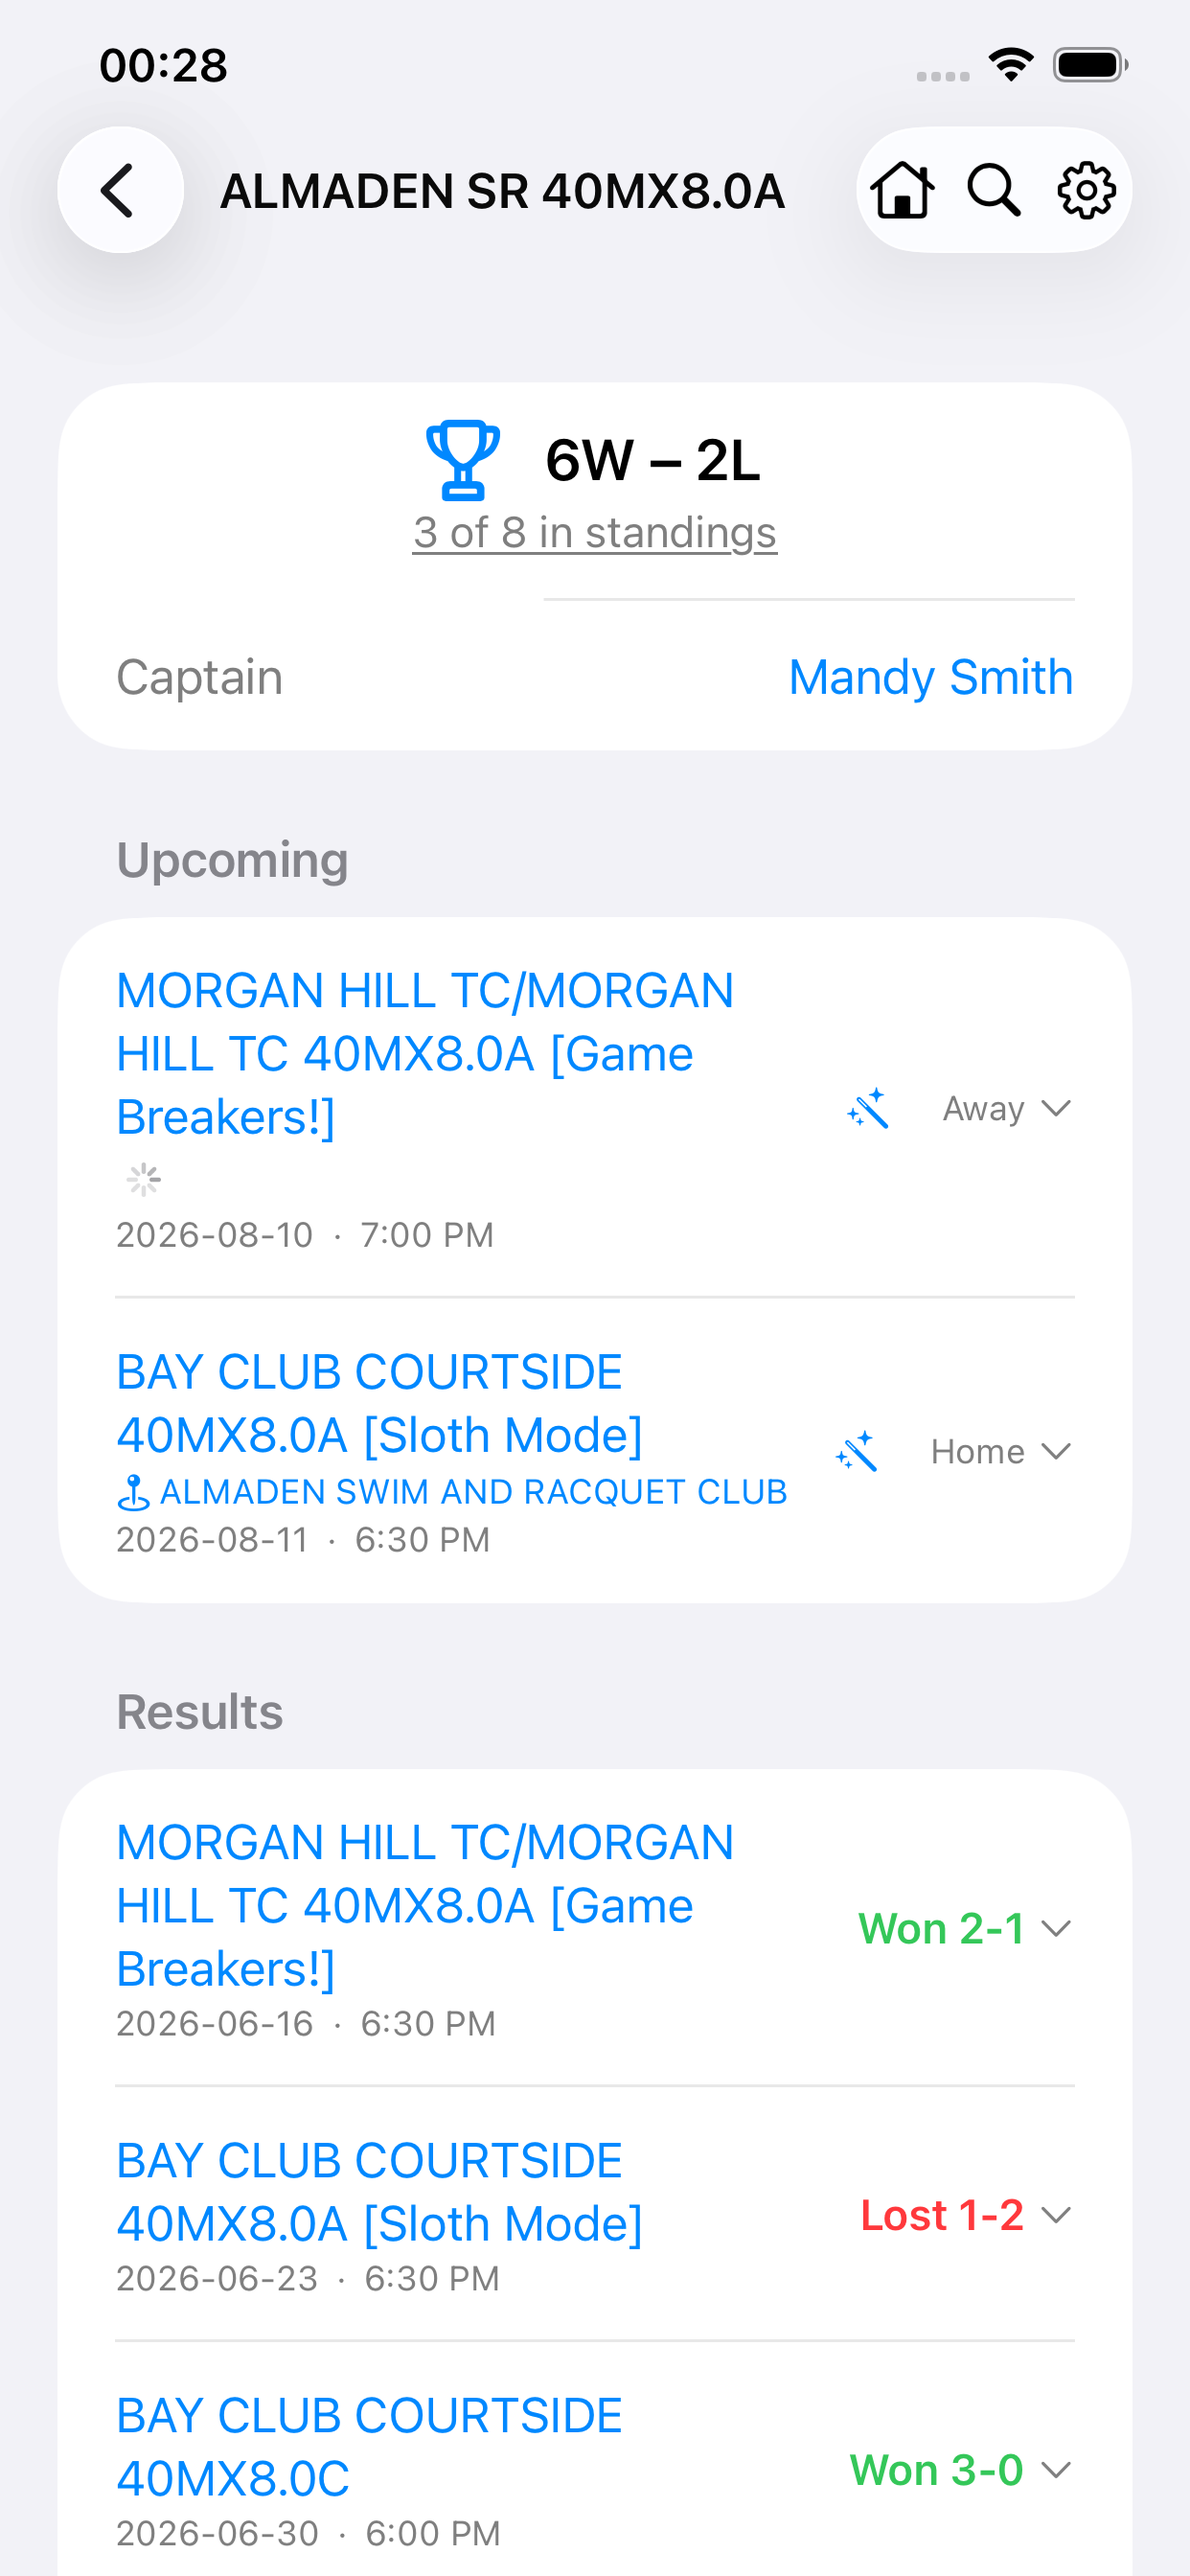
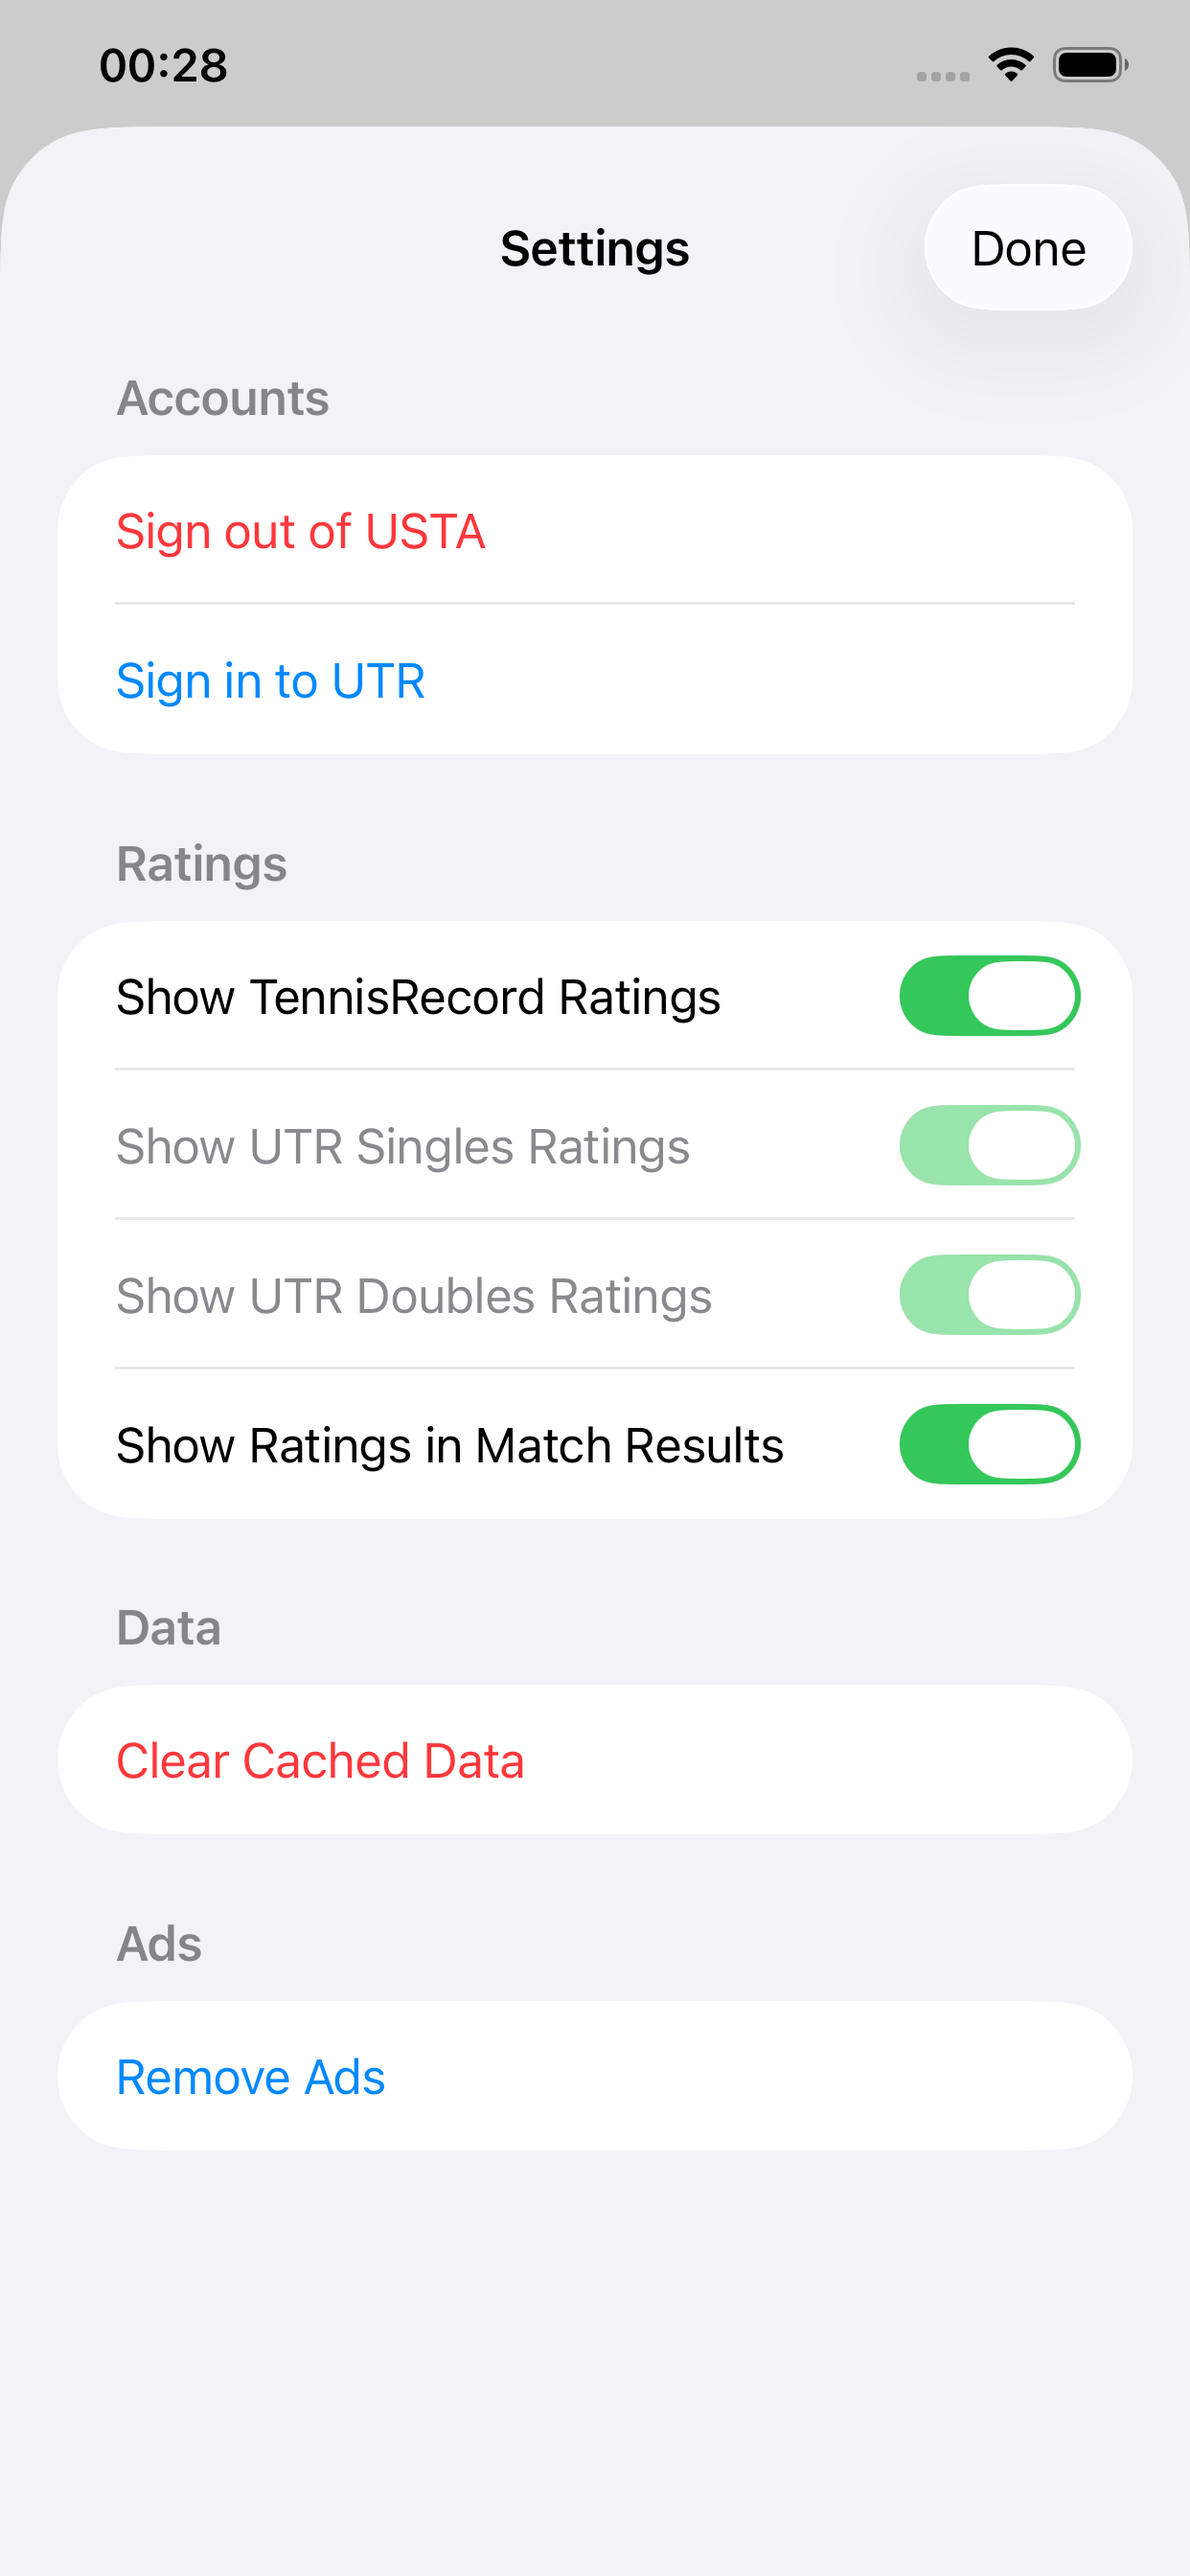
Refresh marketing copy and Settings screenshot

diff --git a/net-results/index.html b/net-results/index.html
@@ -294,7 +294,7 @@
   <section class="hero">
     <div class="badge">iOS App</div>
     <h1>Your USTA NorCal league,<br><span>ready for match day.</span></h1>
-        <p>Search the league, follow every team, plan a lineup, and see where the season is headed — all from one iPhone app.</p>
+        <p>Search the league, follow every team, compare TennisRecord and UTR ratings, plan a lineup, and see where the season is headed — all from one iPhone app.</p>
     <a href="#" class="app-store-btn">Download on the App Store</a>
   </section>
 
@@ -334,7 +334,7 @@
         <div class="feature-card">
         <div class="feature-icon">🔍</div>
         <h3>Search the league</h3>
-        <p>Find players and teams by name, then open their public profiles and team pages. Sign-in is optional for browsing.</p>
+        <p>Find players and teams by name, then open their public profiles and team pages.</p>
         </div>
         <div class="feature-card">
         <div class="feature-icon">📤</div>
@@ -405,7 +405,7 @@
     <div class="showcase-inner reverse">
       <div class="showcase-text">
         <h2>Share the lineup in a tap</h2>
-        <p>When a captain publishes the lineup, players can send it to teammates without retyping every court assignment.</p>
+        <p>When a captain publishes the lineup, players can send it to teammates without the paperwork.</p>
         <ul>
           <li>Review singles and doubles assignments before sharing</li>
           <li>Send directly to a nearby Net Results user</li>
@@ -443,9 +443,9 @@
         <h2>Never miss a match day detail</h2>
         <p>Upcoming matches show the time, location, captain notes, and your availability — all in one expanded row.</p>
         <ul>
-          <li>Match notes and gate codes from your captain</li>
+          <li>Match notes, such as gate codes or the water situation</li>
           <li>Mark Yes, No, Maybe, or Call Last</li>
-          <li>Home or Away indicator</li>
+          <li>Open the match location in your maps app</li>
         </ul>
       </div>
       <div class="showcase-img">
@@ -462,8 +462,8 @@
         <p>Tap any result to see the full scorecard — who played each line, their opponents, the score, and available ratings.</p>
         <ul>
           <li>Line-by-line match results</li>
-          <li>TennisRecord and UTR shown for all four players on each line</li>
-          <li>Enter and verify scores after match day</li>
+          <li>TennisRecord or UTR ratings shown for all players on each line</li>
+          <li>Captains can enter and verify scores after match day</li>
         </ul>
       </div>
       <div class="showcase-img">
@@ -495,7 +495,7 @@
     <div class="showcase-inner">
       <div class="showcase-text">
         <h2>Every detail for every team</h2>
-        <p>Open a team for its schedule, record, roster, standings, and scorecards. The same public data is available whether or not you sign in.</p>
+        <p>Open a team for its schedule, record, roster, standings, and scorecards.</p>
         <ul>
           <li>Current record and full season schedule</li>
           <li>Upcoming and completed matches in one view</li>
